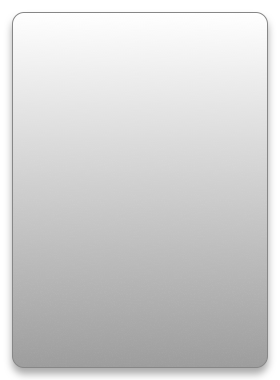
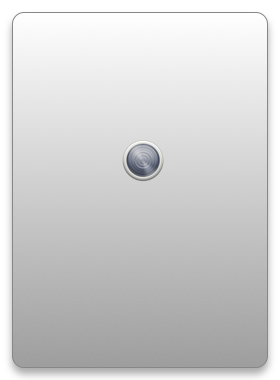
Added project status indicator.

Changed region(s): [[0.4286, 0.3763, 0.6, 0.4921]]

diff --git a/Punch.wdgtproj/project.wdgt/Parts/Indicator.js b/Punch.wdgtproj/project.wdgt/Parts/Indicator.js
@@ -1,0 +1,159 @@
+/*
+© Copyright 2006-2007 Apple Inc.  All rights reserved.
+
+IMPORTANT:  This Apple software ("Apple Software") is supplied to you in consideration of your agreement to the following terms. Your use, installation and/or redistribution of this Apple Software constitutes acceptance of these terms. If you do not agree with these terms, please do not use, install, or redistribute this Apple Software.
+
+Provided you comply with all of the following terms, Apple grants you a personal, non-exclusive license, under Apple’s copyrights in the Apple Software, to use, reproduce, and redistribute the Apple Software for the sole purpose of creating Dashboard widgets for Mac OS X. If you redistribute the Apple Software, you must retain this entire notice in all such redistributions.
+
+You may not use the name, trademarks, service marks or logos of Apple to endorse or promote products that include the Apple Software without the prior written permission of Apple. Except as expressly stated in this notice, no other rights or licenses, express or implied, are granted by Apple herein, including but not limited to any patent rights that may be infringed by your products that incorporate the Apple Software or by other works in which the Apple Software may be incorporated.
+
+The Apple Software is provided on an "AS IS" basis.  APPLE MAKES NO WARRANTIES, EXPRESS OR IMPLIED, INCLUDING WITHOUT LIMITATION THE IMPLIED WARRANTIES OF NON-INFRINGEMENT, MERCHANTABILITY AND FITNESS FOR A PARTICULAR PURPOSE, REGARDING THE APPPLE SOFTWARE OR ITS USE AND OPERATION ALONE OR IN COMBINATION WITH YOUR PRODUCTS.
+
+IN NO EVENT SHALL APPLE BE LIABLE FOR ANY SPECIAL, INDIRECT, INCIDENTAL OR CONSEQUENTIAL DAMAGES (INCLUDING, BUT NOT LIMITED TO, PROCUREMENT OF SUBSTITUTE GOODS OR SERVICES; LOSS OF USE, DATA, OR PROFITS; OR BUSINESS INTERRUPTION) ARISING IN ANY WAY OUT OF THE USE, REPRODUCTION, AND/OR DISTRIBUTION OF THE APPLE SOFTWARE, HOWEVER CAUSED AND WHETHER UNDER THEORY OF CONTRACT, TORT (INCLUDING NEGLIGENCE), STRICT LIABILITY OR OTHERWISE, EVEN IF APPLE HAS BEEN ADVISED OF THE POSSIBILITY OF SUCH DAMAGE.
+ */
+
+function CreateIndicator(indicatorID, spec)
+{
+	var indicatorElement = document.getElementById(indicatorID);
+	if (!indicatorElement.loaded) 
+	{
+		indicatorElement.loaded = true;
+		indicatorElement.object = new Indicator(indicatorElement, spec.value || 0, spec.onValue || 0, spec.warningValue || 0, spec.criticalValue || 0, spec.imageOff || null, spec.imageOn || null, spec.imageWarning || null, spec.imageCritical || null);
+		return indicatorElement.object;
+	}
+}
+
+function Indicator(indicator, value, onValue, warningValue, criticalValue, imageOff, imageOn, imageWarning, imageCritical)
+{
+	/* Objects */
+	this._indicator = indicator;
+	
+	/* public properties */
+	// These are read-only. Use the setter functions to set them.
+	this.value = value;
+	
+	/* Internal objects */
+	this._image = null;
+		
+	this.imageOffPath = imageOff == null ? "Images/IndicatorOff.png" : imageOff;
+	this.imageOnPath = imageOn == null ? "Images/IndicatorOn.png" : imageOn;
+	this.imageWarningPath = imageWarning == null ? "Images/IndicatorWarning.png" : imageWarning;
+	this.imageCriticalPath = imageCritical == null ? "Images/IndicatorCritical.png" : imageCritical;
+		
+	this._init(value, onValue, warningValue, criticalValue, imageOn, imageOff, imageWarning, imageCritical);
+}
+
+Indicator.prototype._init = function(value, onValue, warningValue, criticalValue, imageOn, imageOff, imageWarning, imageCritical)
+{
+	// For JavaScript event handlers
+	var _self = this;
+	
+	this.onValue = onValue;
+	this.warningValue = warningValue;
+	this.criticalValue = criticalValue;
+	
+	var style = null;
+	var element = null;
+
+	// Level Indicator Track
+	element = document.createElement("img");
+	style = element.style;
+	style.height = "100%";
+	style.width = "100%";
+	this._indicator.appendChild(element);
+	this._image = element;
+	
+	this.refresh();
+}
+
+
+Indicator.prototype.remove = function()
+{
+	var parent = this._image.parentNode;
+	parent.removeChild(this._image);
+}
+
+/*
+ * refresh() member function
+ * Refresh the current level indicator position.
+ * Call this to make the level indicator appear after the widget has loaded and 
+ * the Indicator object has been instantiated.
+ */
+Indicator.prototype.refresh = function()
+{	
+	this._computedIndicatorStyle = document.defaultView.getComputedStyle(this._indicator, '');
+	this._setValueTo(this.value);
+}
+
+Indicator.prototype._setValueTo = function(newValue)
+{	
+	this.value = newValue;
+
+	var imagePath = null;
+
+	if (this.value >= this.criticalValue)
+		imagePath = this.imageCriticalPath;
+	else if (this.value >= this.warningValue)
+		imagePath = this.imageWarningPath;
+	else if (this.value >= this.onValue)
+		imagePath = this.imageOnPath;
+	else
+		imagePath = this.imageOffPath;
+		
+	this._image.src = imagePath;
+}
+
+// Capture events that we don't handle but also don't want getting through
+Indicator.prototype._captureEvent = function(event)
+{
+	event.stopPropagation();
+	event.preventDefault();
+}
+
+Indicator.prototype.setValue = function(newValue)
+{
+	this.value = newValue;
+	this.refresh();
+}
+
+Indicator.prototype.setOnValue = function(newValue)
+{
+	this.onValue = newValue;
+	this.refresh();
+}
+
+Indicator.prototype.setWarningValue = function(newValue)
+{
+	this.warningValue = newValue;
+	this.refresh();
+}
+
+Indicator.prototype.setCriticalValue = function(newValue)
+{
+	this.criticalValue = newValue;
+	this.refresh();
+}
+
+Indicator.prototype.setImageOff = function(newValue)
+{
+	this.imageOffPath = newValue;	
+	this.refresh();
+}
+
+Indicator.prototype.setImageOn = function(newValue)
+{
+	this.imageOnPath = newValue;	
+	this.refresh();
+}
+
+Indicator.prototype.setImageWarning = function(newValue)
+{
+	this.imageWarningPath = newValue;	
+	this.refresh();
+}
+
+Indicator.prototype.setImageCritical = function(newValue)
+{
+	this.imageCriticalPath = newValue;	
+	this.refresh();
+}

diff --git a/Punch.wdgtproj/project.wdgt/Punch.html b/Punch.wdgtproj/project.wdgt/Punch.html
@@ -15,6 +15,7 @@
     <script type="text/javascript" src="Parts/InfoButton.js" charset="utf-8"></script>
     <script type="text/javascript" src="Parts/GlassButton.js" charset="utf-8"></script>
     <script type="text/javascript" src="Punch.js" charset="utf-8"></script>
+<script type="text/javascript" src="Parts/Indicator.js" charset="utf-8"></script>
 </head>
 <body onload="load();">
     <div id="front">
@@ -22,6 +23,7 @@
         <div class="apple-no-children" id="info" apple-part="com.apple.Dashcode.part.infobutton" apple-default-image-visibility="hidden"></div>
         <div apple-part="com.apple.Dashcode.part.text" class="apple-text apple-no-children" id="punch_title" apple-group="text" apple-default-image-visibility="hidden"></div>
     <div apple-part="com.apple.Dashcode.part.text" class="apple-text apple-no-children" apple-default-image-visibility="hidden" apple-text-overflow="ellipsis" id="project_name_display" apple-group="text"></div>
+    <div apple-part="com.apple.Dashcode.part.indicator" class="apple-no-children" id="project_status_indicator" apple-group="indicator"></div>
     </div>
     <div id="back">
        <img id="backImg" src="Images/back.png" alt="" apple-locked="true" apple-part="com.apple.Dashcode.part.backimage" apple-style=" image-radius: 12,12,12,12; image-border: 1; image-border-color: 0.1500,0.1500,0.1500; image-border-width: 3; shadow-include-shadow: 1; shadow-blur: 9.00; shadow-offset: -1.00,-6.00; shadow-color: 0.0000,0.0000,0.0000,0.3333;">

diff --git a/Punch.wdgtproj/project.wdgt/Parts/setup.js b/Punch.wdgtproj/project.wdgt/Parts/setup.js
@@ -8,5 +8,6 @@ function setupParts() {
     CreateGlassButton('done', { text: 'Done', onclick: 'showFront' });
     CreateText('project_name_display', { text: 'project name' });
     CreateText('text', { text: 'Project Name:' });
+    CreateIndicator('project_status_indicator', { onValue: 1, criticalValue: 3, warningValue: 2 });
 }
 window.addEventListener('load', setupParts, false);

diff --git a/Punch.wdgtproj/project.wdgt/Punch.css b/Punch.wdgtproj/project.wdgt/Punch.css
@@ -102,3 +102,11 @@ body {
     left: 136px;
     top: 171px;
 }
+
+#project_status_indicator {
+    position: absolute;
+    width: 48px;
+    height: 48px;
+    left: 119px;
+    top: 137px;
+}
